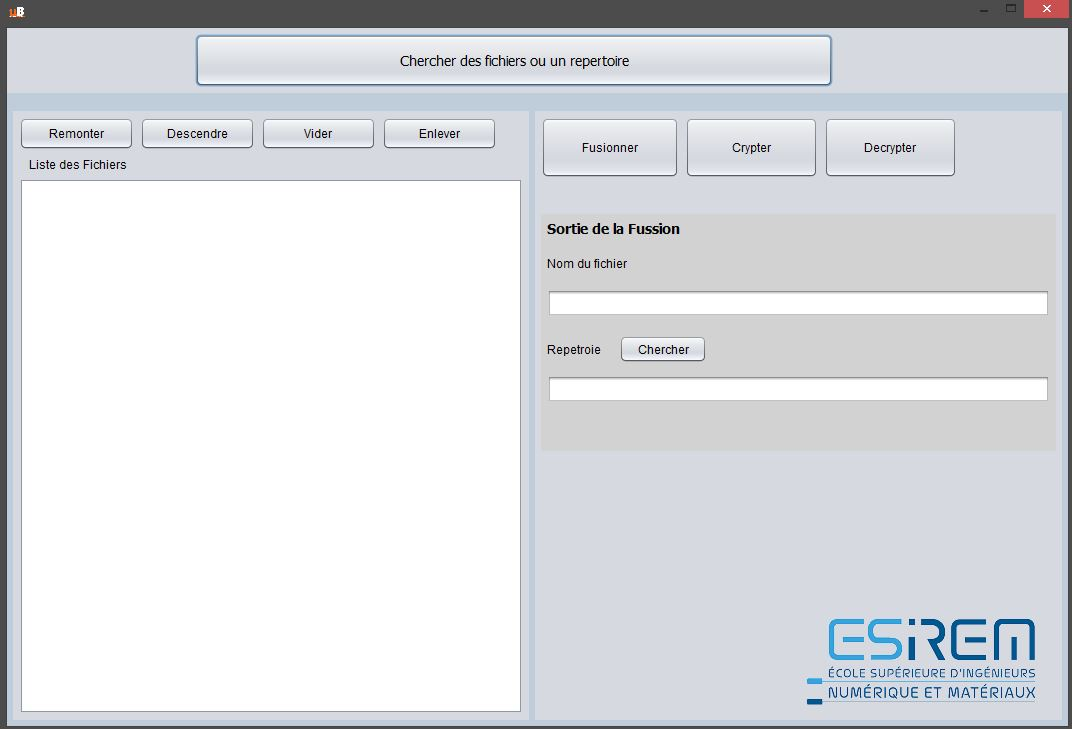
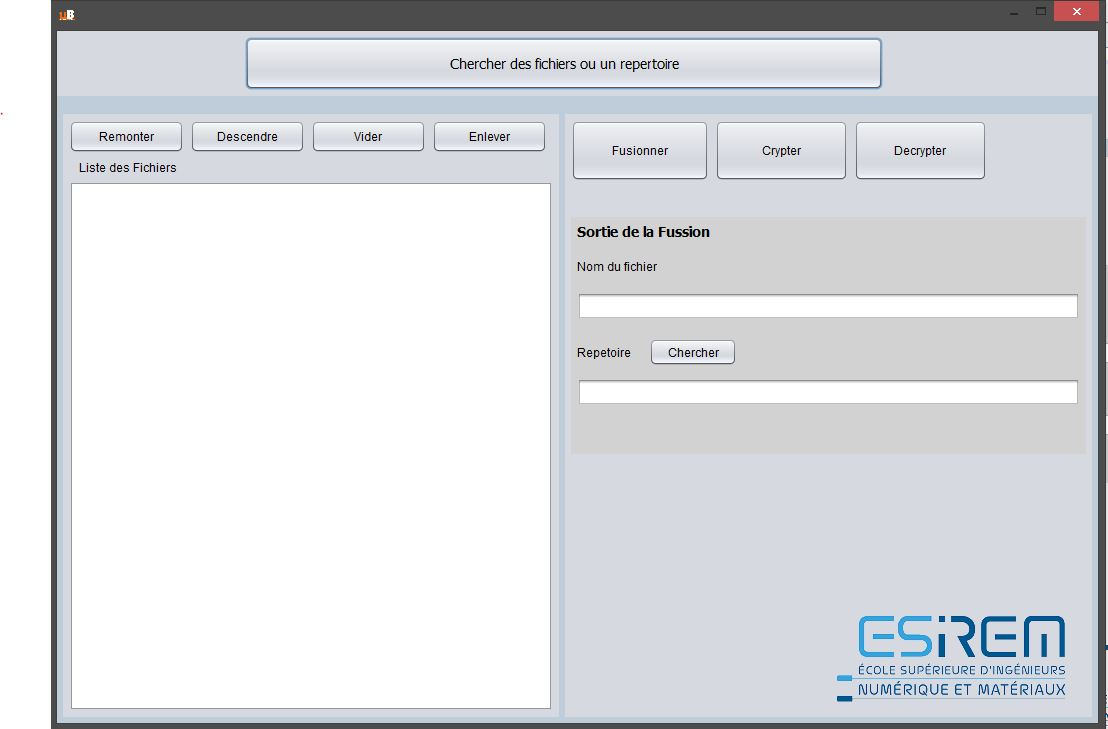
correction interface

Changed region(s): [[0.0, 0.0, 1.0, 1.0]]

diff --git a/dist/FileManager.html b/dist/FileManager.html
@@ -4,7 +4,7 @@
     function launchApplication(jnlpfile) {
         dtjava.launch(            {
                 url : 'FileManager.jnlp',
[2 lines of base64/hex data omitted]
             },
             {
                 javafx : '8.0+'
@@ -24,7 +24,7 @@
                 placeholder : 'javafx-app-placeholder',
                 width : '800',
                 height : '600',
[2 lines of base64/hex data omitted]
             },
             {
                 javafx : '8.0+'

diff --git a/src/filemanager/MainWindows.java b/src/filemanager/MainWindows.java
@@ -219,7 +219,7 @@ public class MainWindows extends javax.swing.JFrame {
 
         jLabel3.setText("Nom du fichier");
 
-        jLabel4.setText("Repetroie");
+        jLabel4.setText("Repetoire");
 
         jLabel2.setFont(new java.awt.Font("Tahoma", 1, 14)); // NOI18N
         jLabel2.setText("Sortie de la Fussion");
@@ -333,11 +333,11 @@ public class MainWindows extends javax.swing.JFrame {
         getContentPane().setLayout(layout);
         layout.setHorizontalGroup(
             layout.createParallelGroup(javax.swing.GroupLayout.Alignment.LEADING)
-            .addComponent(jPanel1, javax.swing.GroupLayout.DEFAULT_SIZE, 1061, Short.MAX_VALUE)
+            .addComponent(jPanel1, javax.swing.GroupLayout.DEFAULT_SIZE, javax.swing.GroupLayout.DEFAULT_SIZE, Short.MAX_VALUE)
         );
         layout.setVerticalGroup(
             layout.createParallelGroup(javax.swing.GroupLayout.Alignment.LEADING)
-            .addComponent(jPanel1, javax.swing.GroupLayout.DEFAULT_SIZE, 698, Short.MAX_VALUE)
+            .addComponent(jPanel1, javax.swing.GroupLayout.DEFAULT_SIZE, javax.swing.GroupLayout.DEFAULT_SIZE, Short.MAX_VALUE)
         );
 
         pack();
